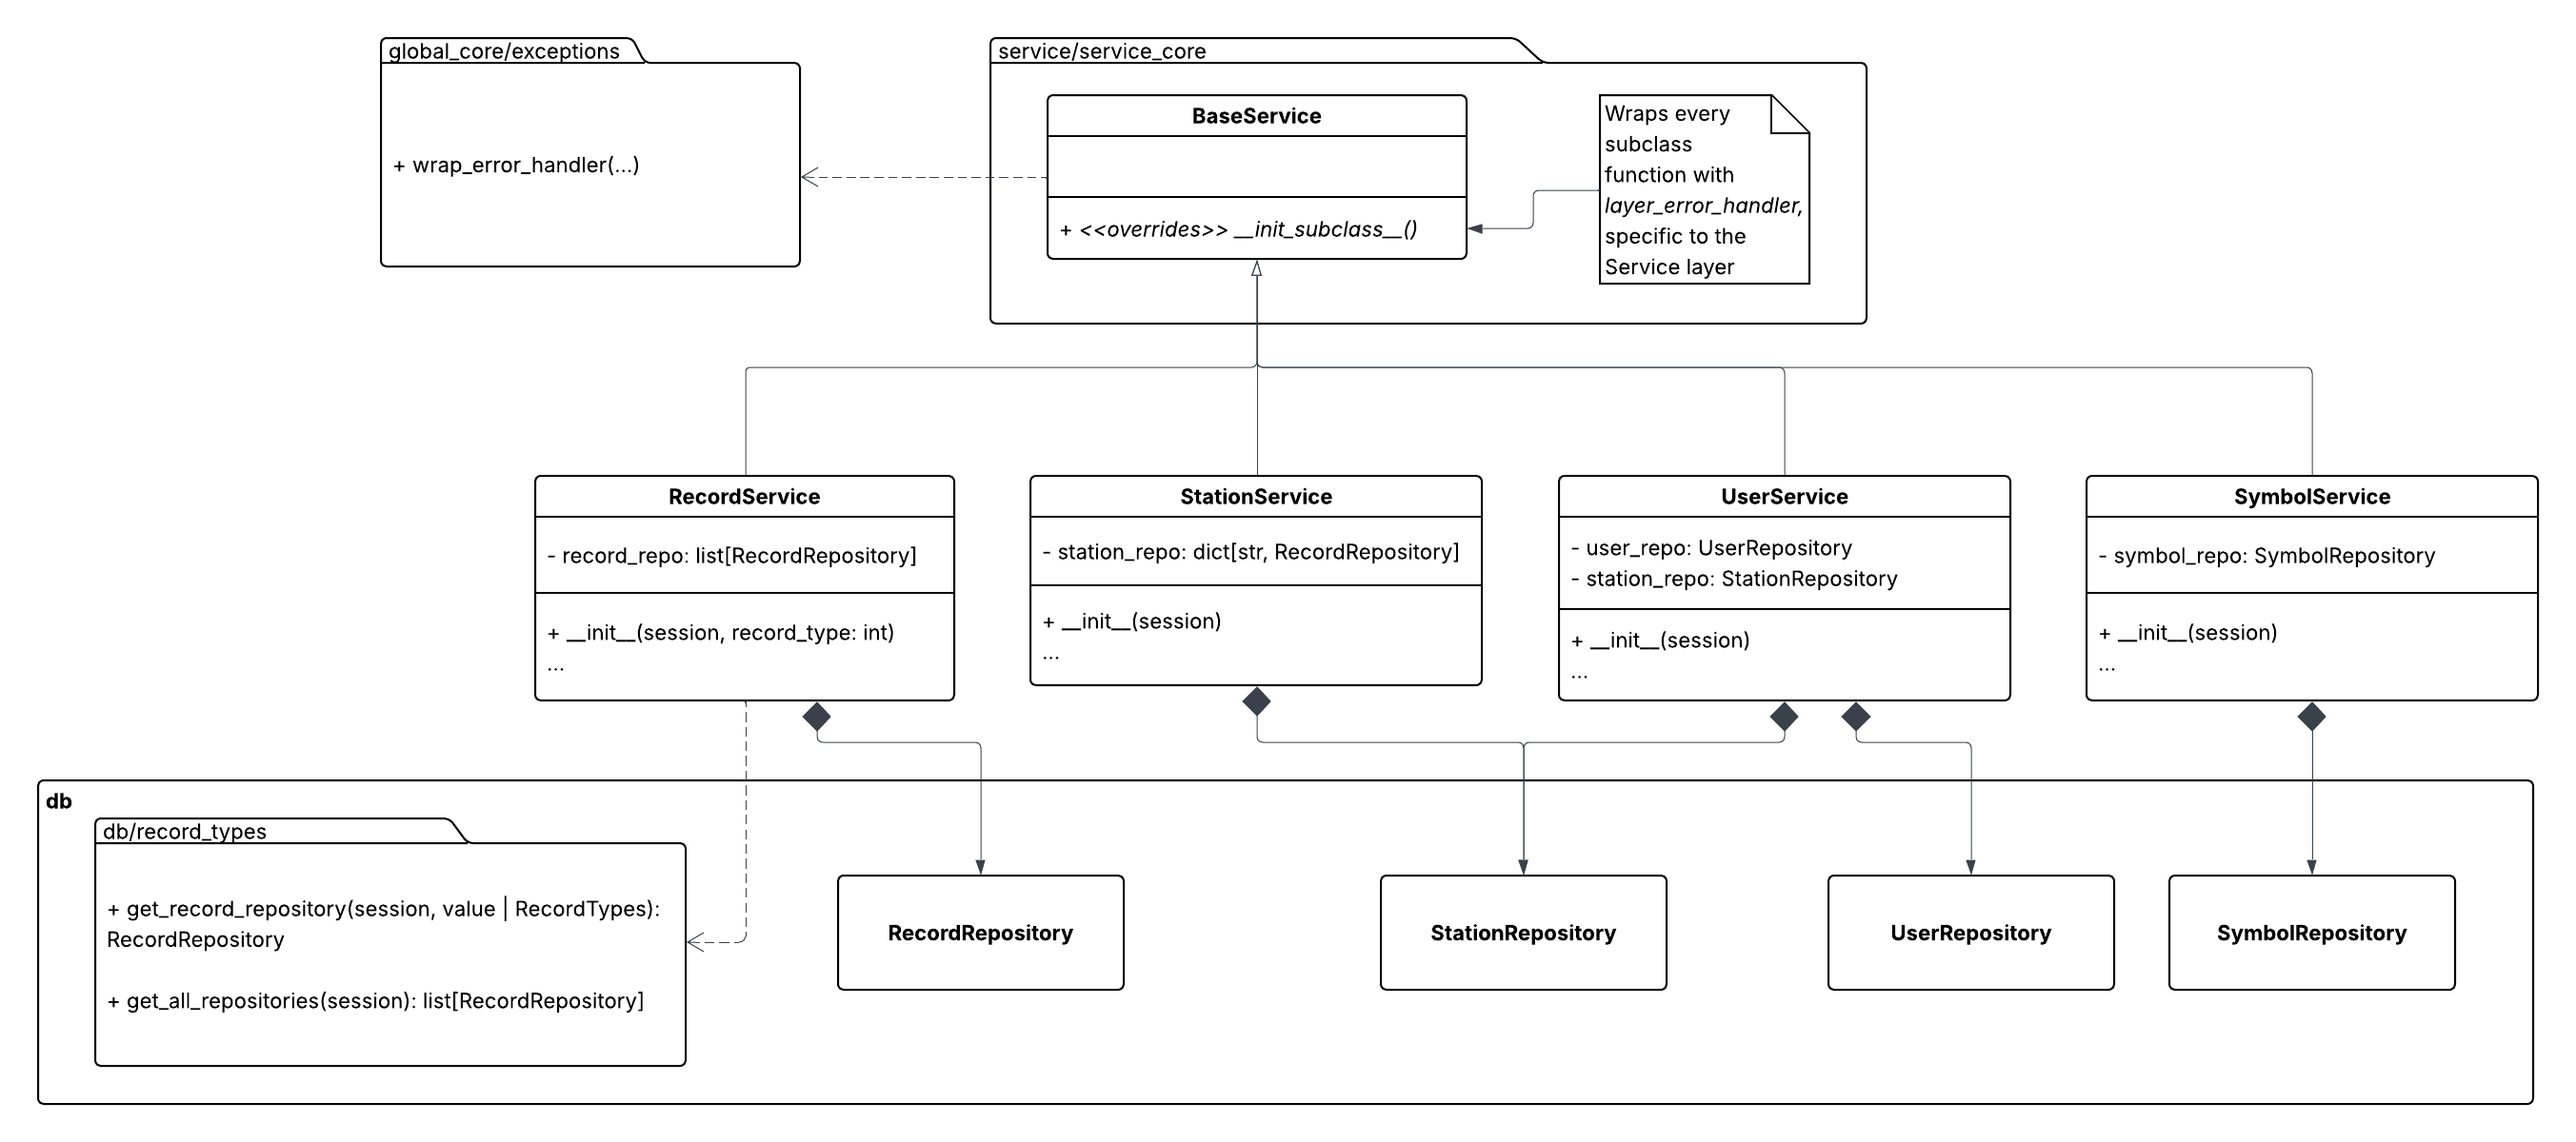
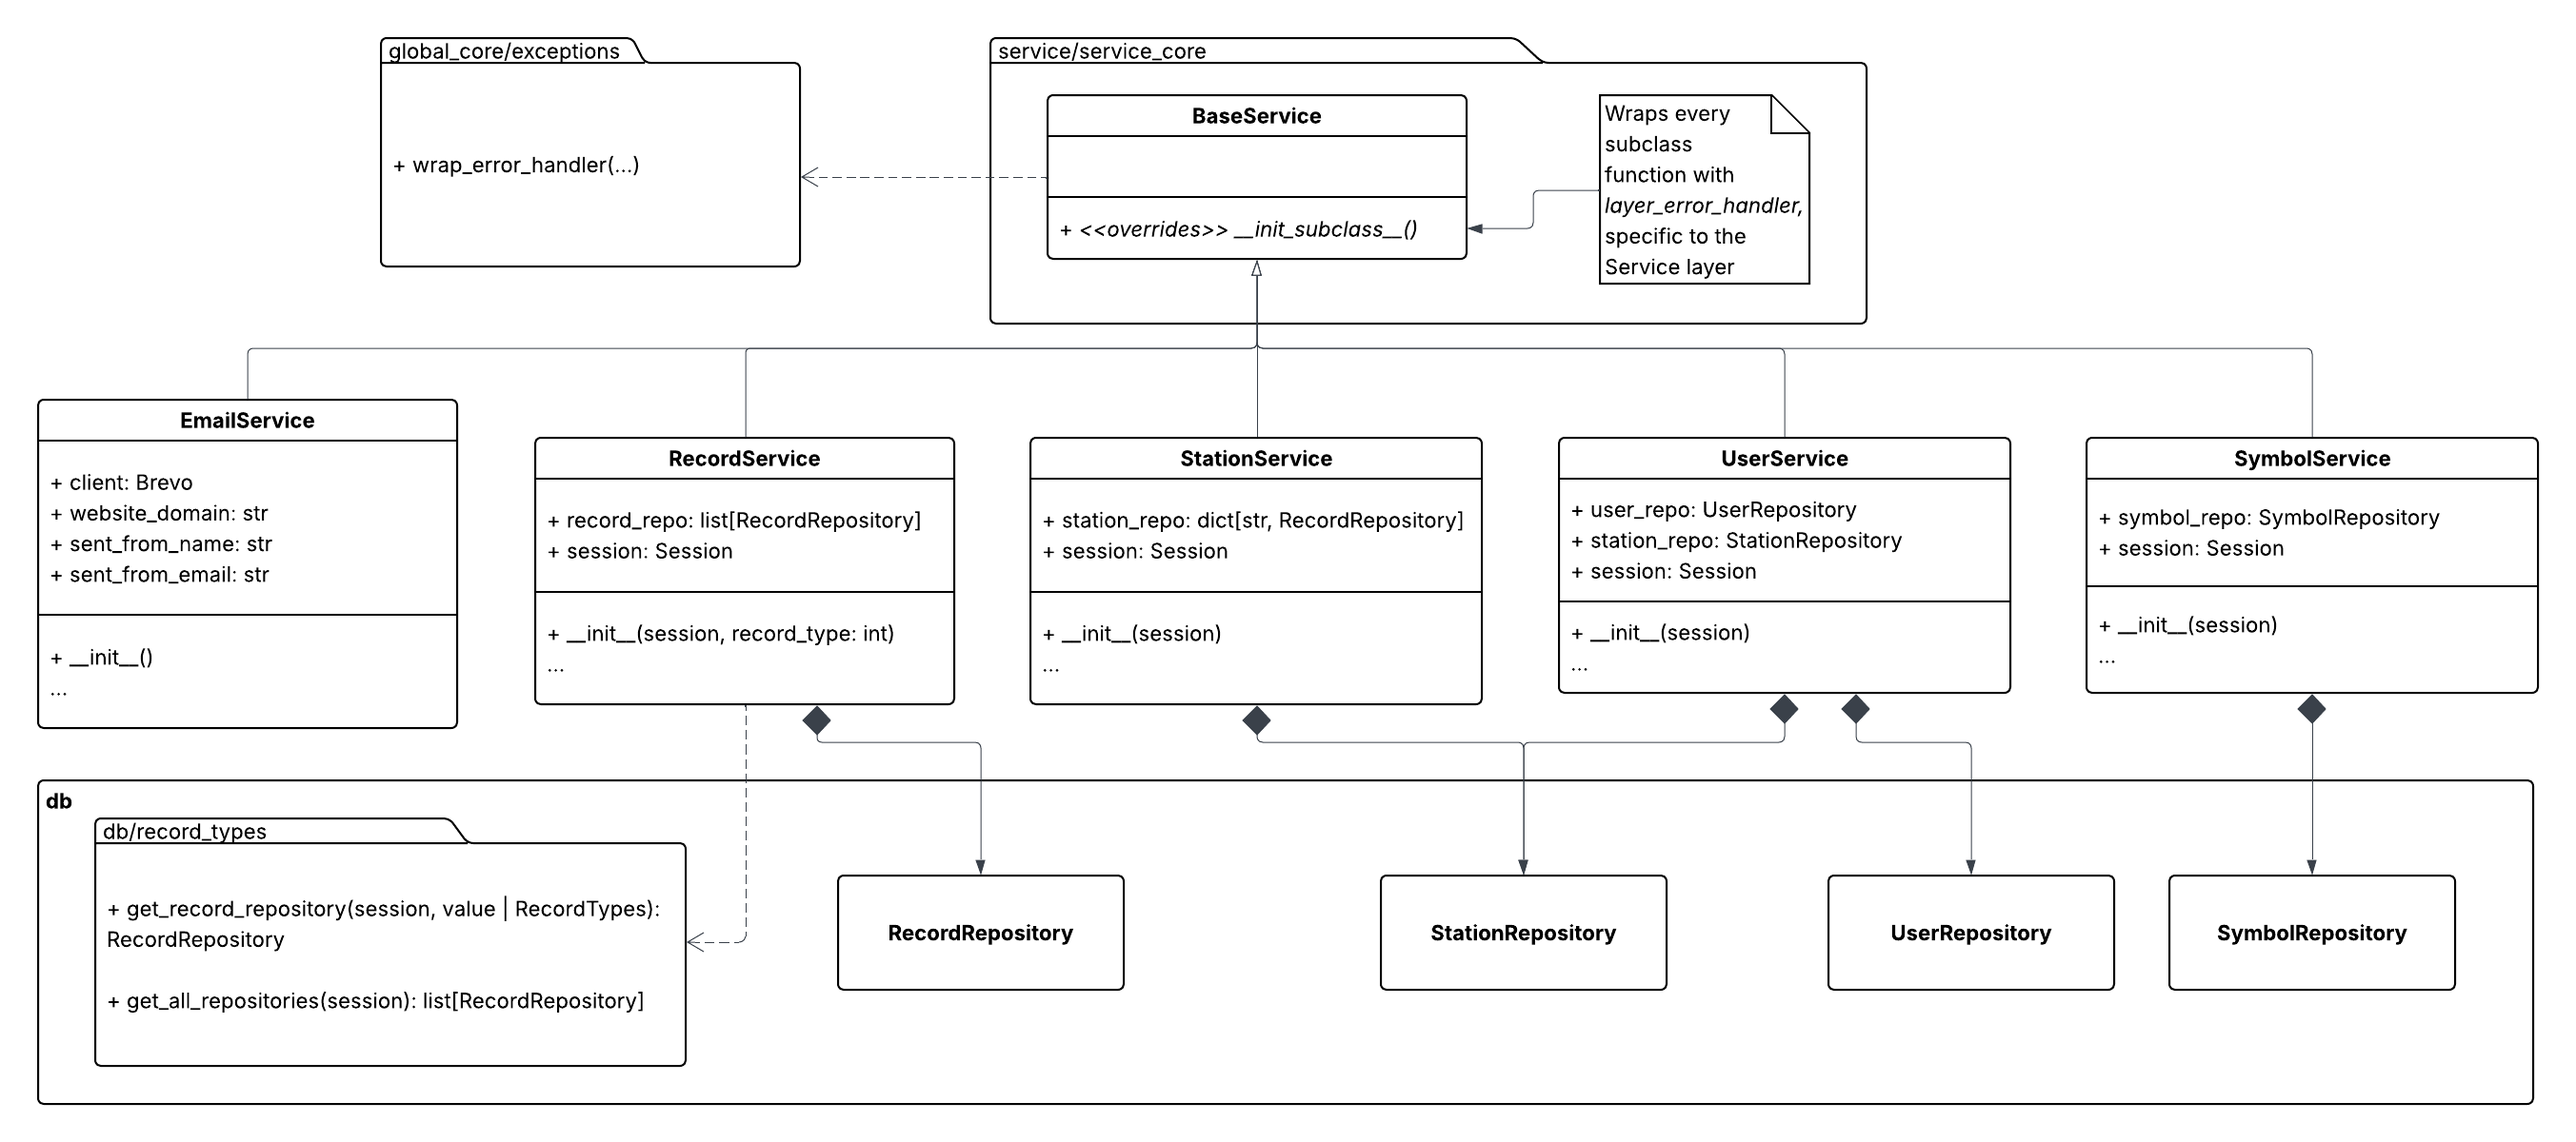
Small renaming in db_core/exceptions, added and updated diagrams

diff --git a/backend/src/db/db_core/exceptions.py b/backend/src/db/db_core/exceptions.py
@@ -64,7 +64,7 @@ def wrap_repository_error_handler(func):
 
 
 def repository_error_translator(
-    e: Exception,
+    exc: Exception,
     caller_name: Optional[str] = None,
     point_of_error: Optional[str] = None,
     message: Optional[str] = None,
@@ -74,7 +74,7 @@ def repository_error_translator(
     for more details.
 
     Args:
-        e (Exception): An exception that is to be translated.
+        exc (Exception): An exception that is to be translated.
         caller_name (str, optional): The class that called this function. Defaults to
             None.
         point_of_error (str, optional): The location/function the error occurred in.
@@ -89,11 +89,11 @@ def repository_error_translator(
             instance of `RepositoryError` is returned. In the case a match is not found,
             a `RepositoryInternalError` is instantiated and returned as a fallback,
             preventing lower-level implementation details from propagating upwards. If
-            the provided exception `e` is an instance with a matching type in `exclude`,
+            the provided exception `exc` is an instance with a matching type in `exclude`,
             it is returned as-is.
     """
     return translate_error(
-        e,
+        exc,
         REPOSITORY_ERROR_MAP,
         RepositoryInternalError,
         caller_name,

diff --git a/backend/docs/errors.md b/backend/docs/errors.md
@@ -6,8 +6,11 @@ To achieve this, we incorporate Python’s function decorators to wrap class met
 
 The code for the error handling is located in the `db_core.exceptions` module, and can be used in any of the layers. The [**API**](api.md) layer uses the error handlers provided by *Flask*, but the [**Service**](service.md) and [**Repository**](repository.md) layers utilize the error handling logic described here.
 
+**Error Handling Class/Module Diagram**
+![Error-Handling-Diagram](./diagrams/errors.png)
+
+**Request Sequence Diagram**
 ![Request-Flow-With-Error-Path](./diagrams/request_seq.png)
-**The sequence diagram above showcases sequence of a successful and unsuccessful client request. Exceptions are travel and are translated at each layer.**
 
 # LayerError
 This is the parent class for all the exceptions in the different layers. Both [`ServiceError`](service.md#error_types) and [`RepositoryError`](repository.md#error-types) inherit this class. A `default_message` is included in every `LayerError` to be used when details should be abstracted from the client, and a child exception should specify a unique message in their class definition.
